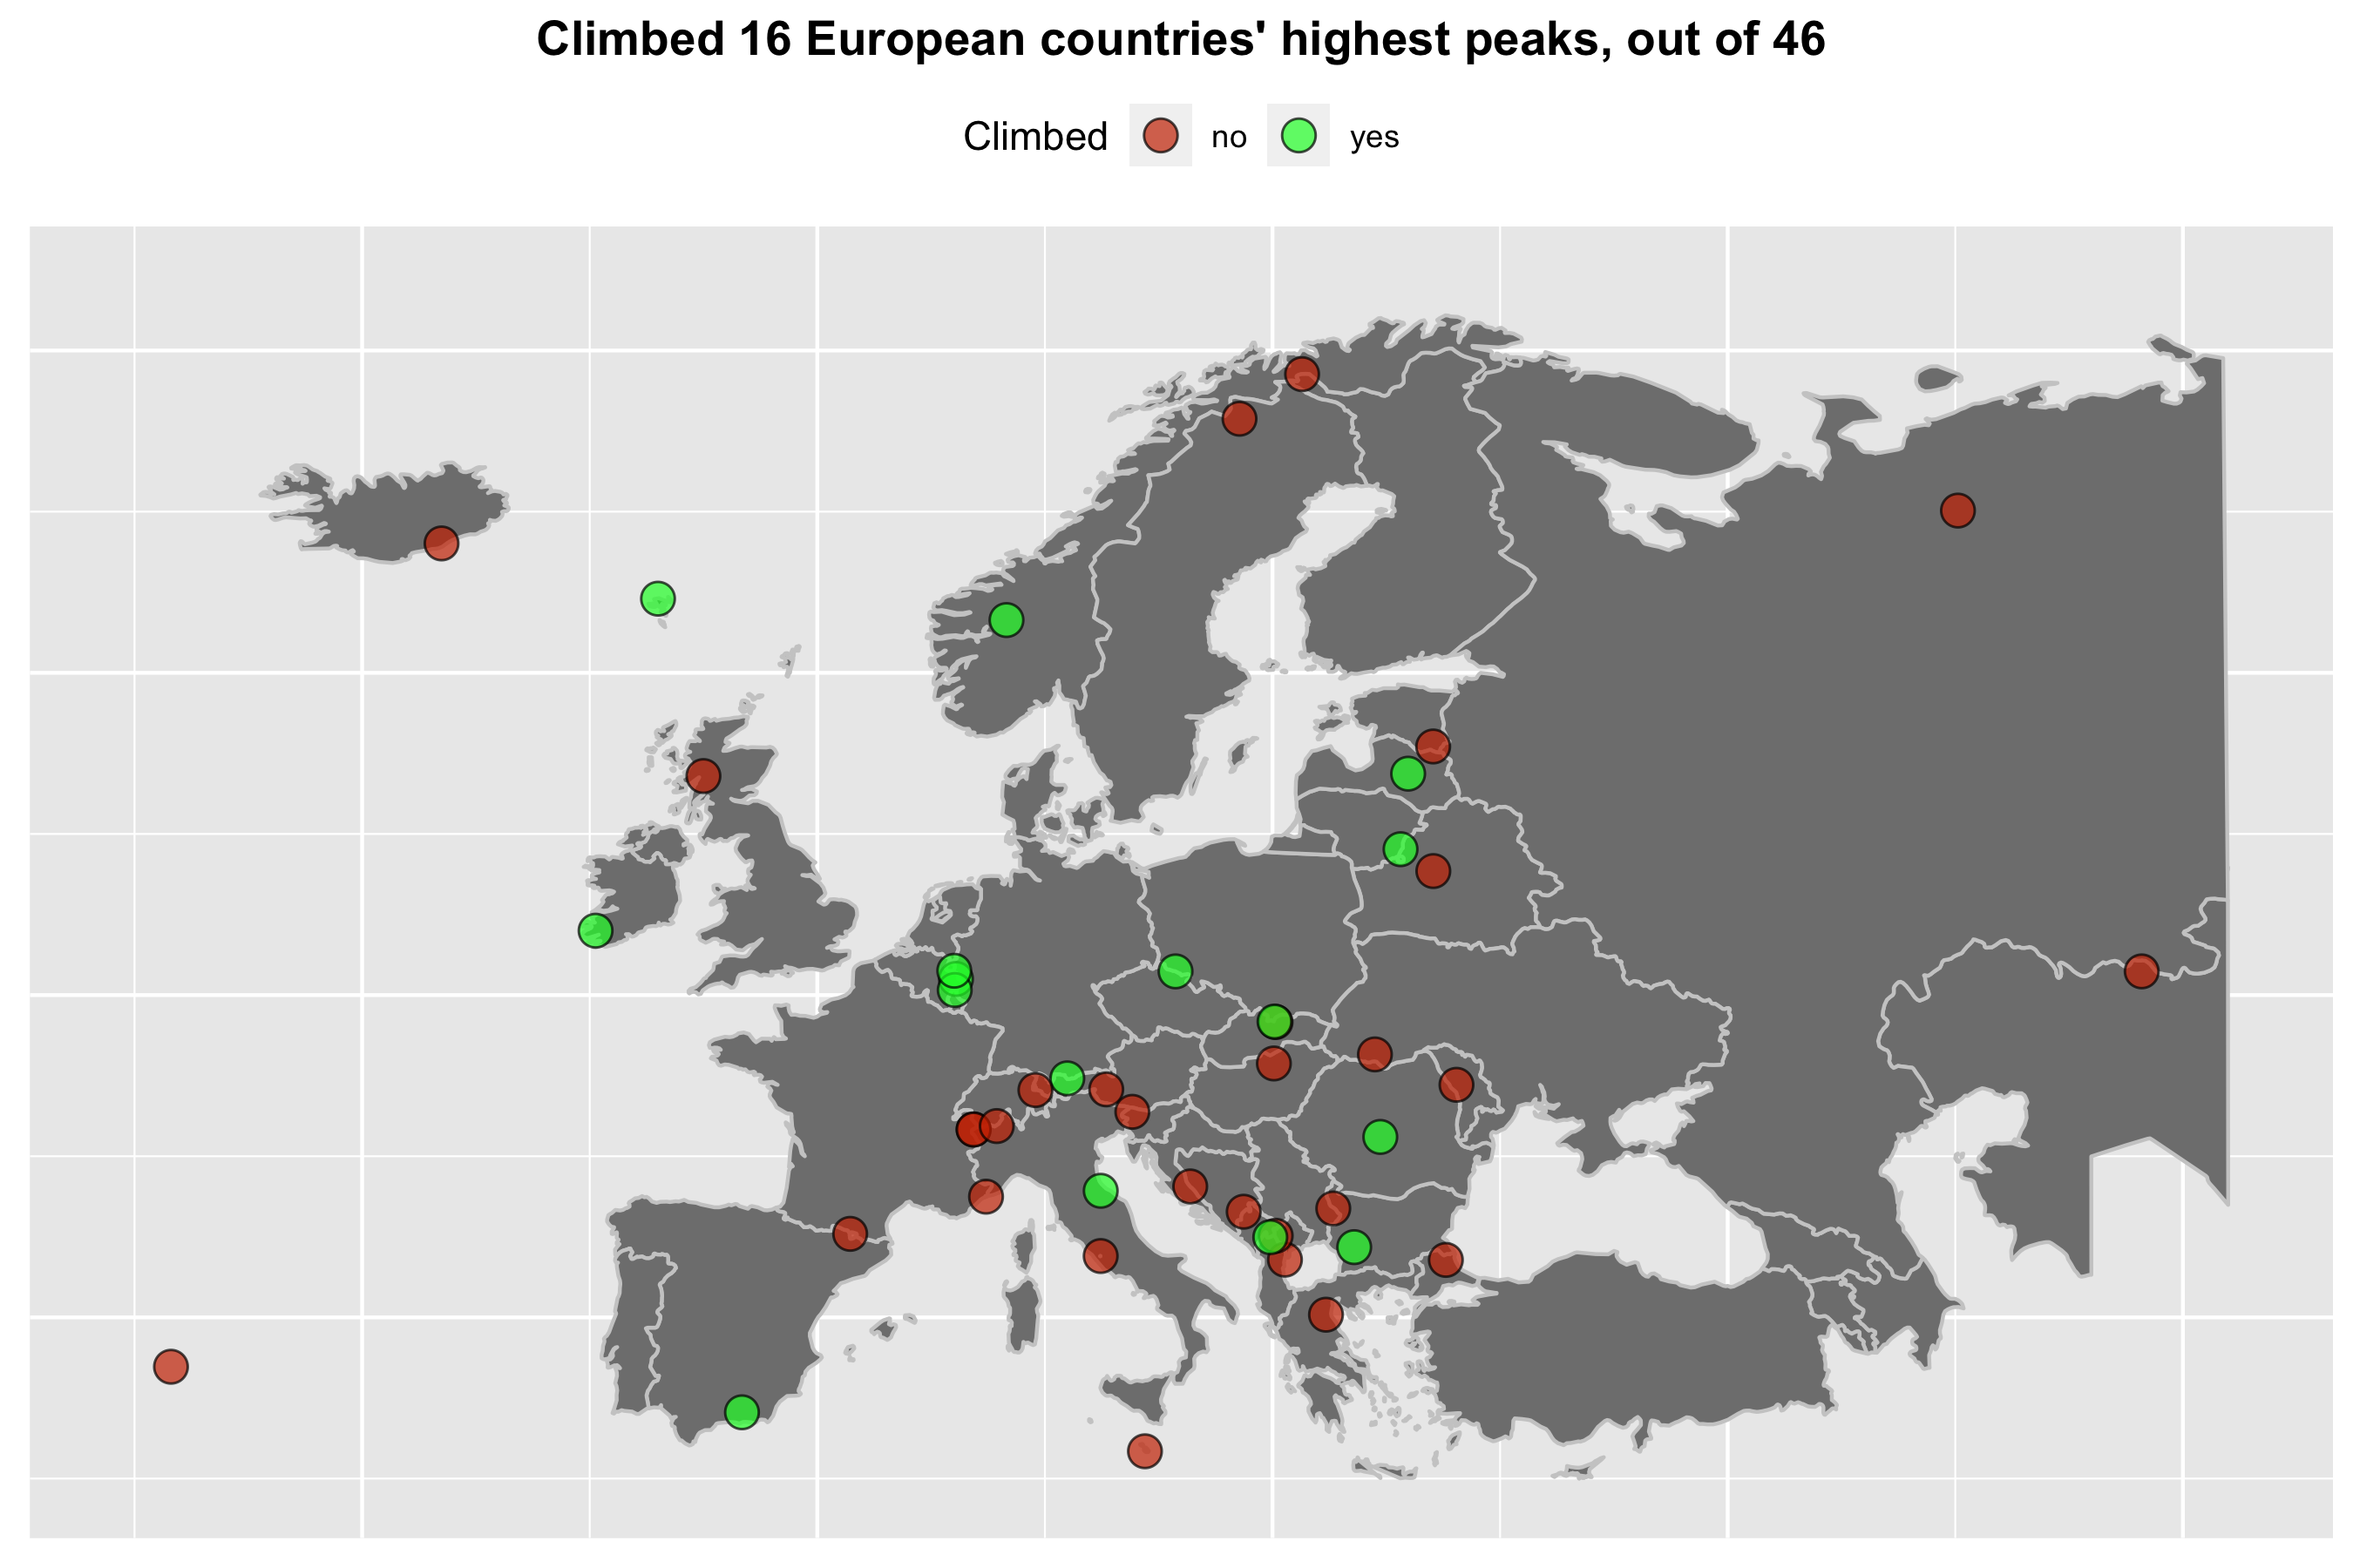
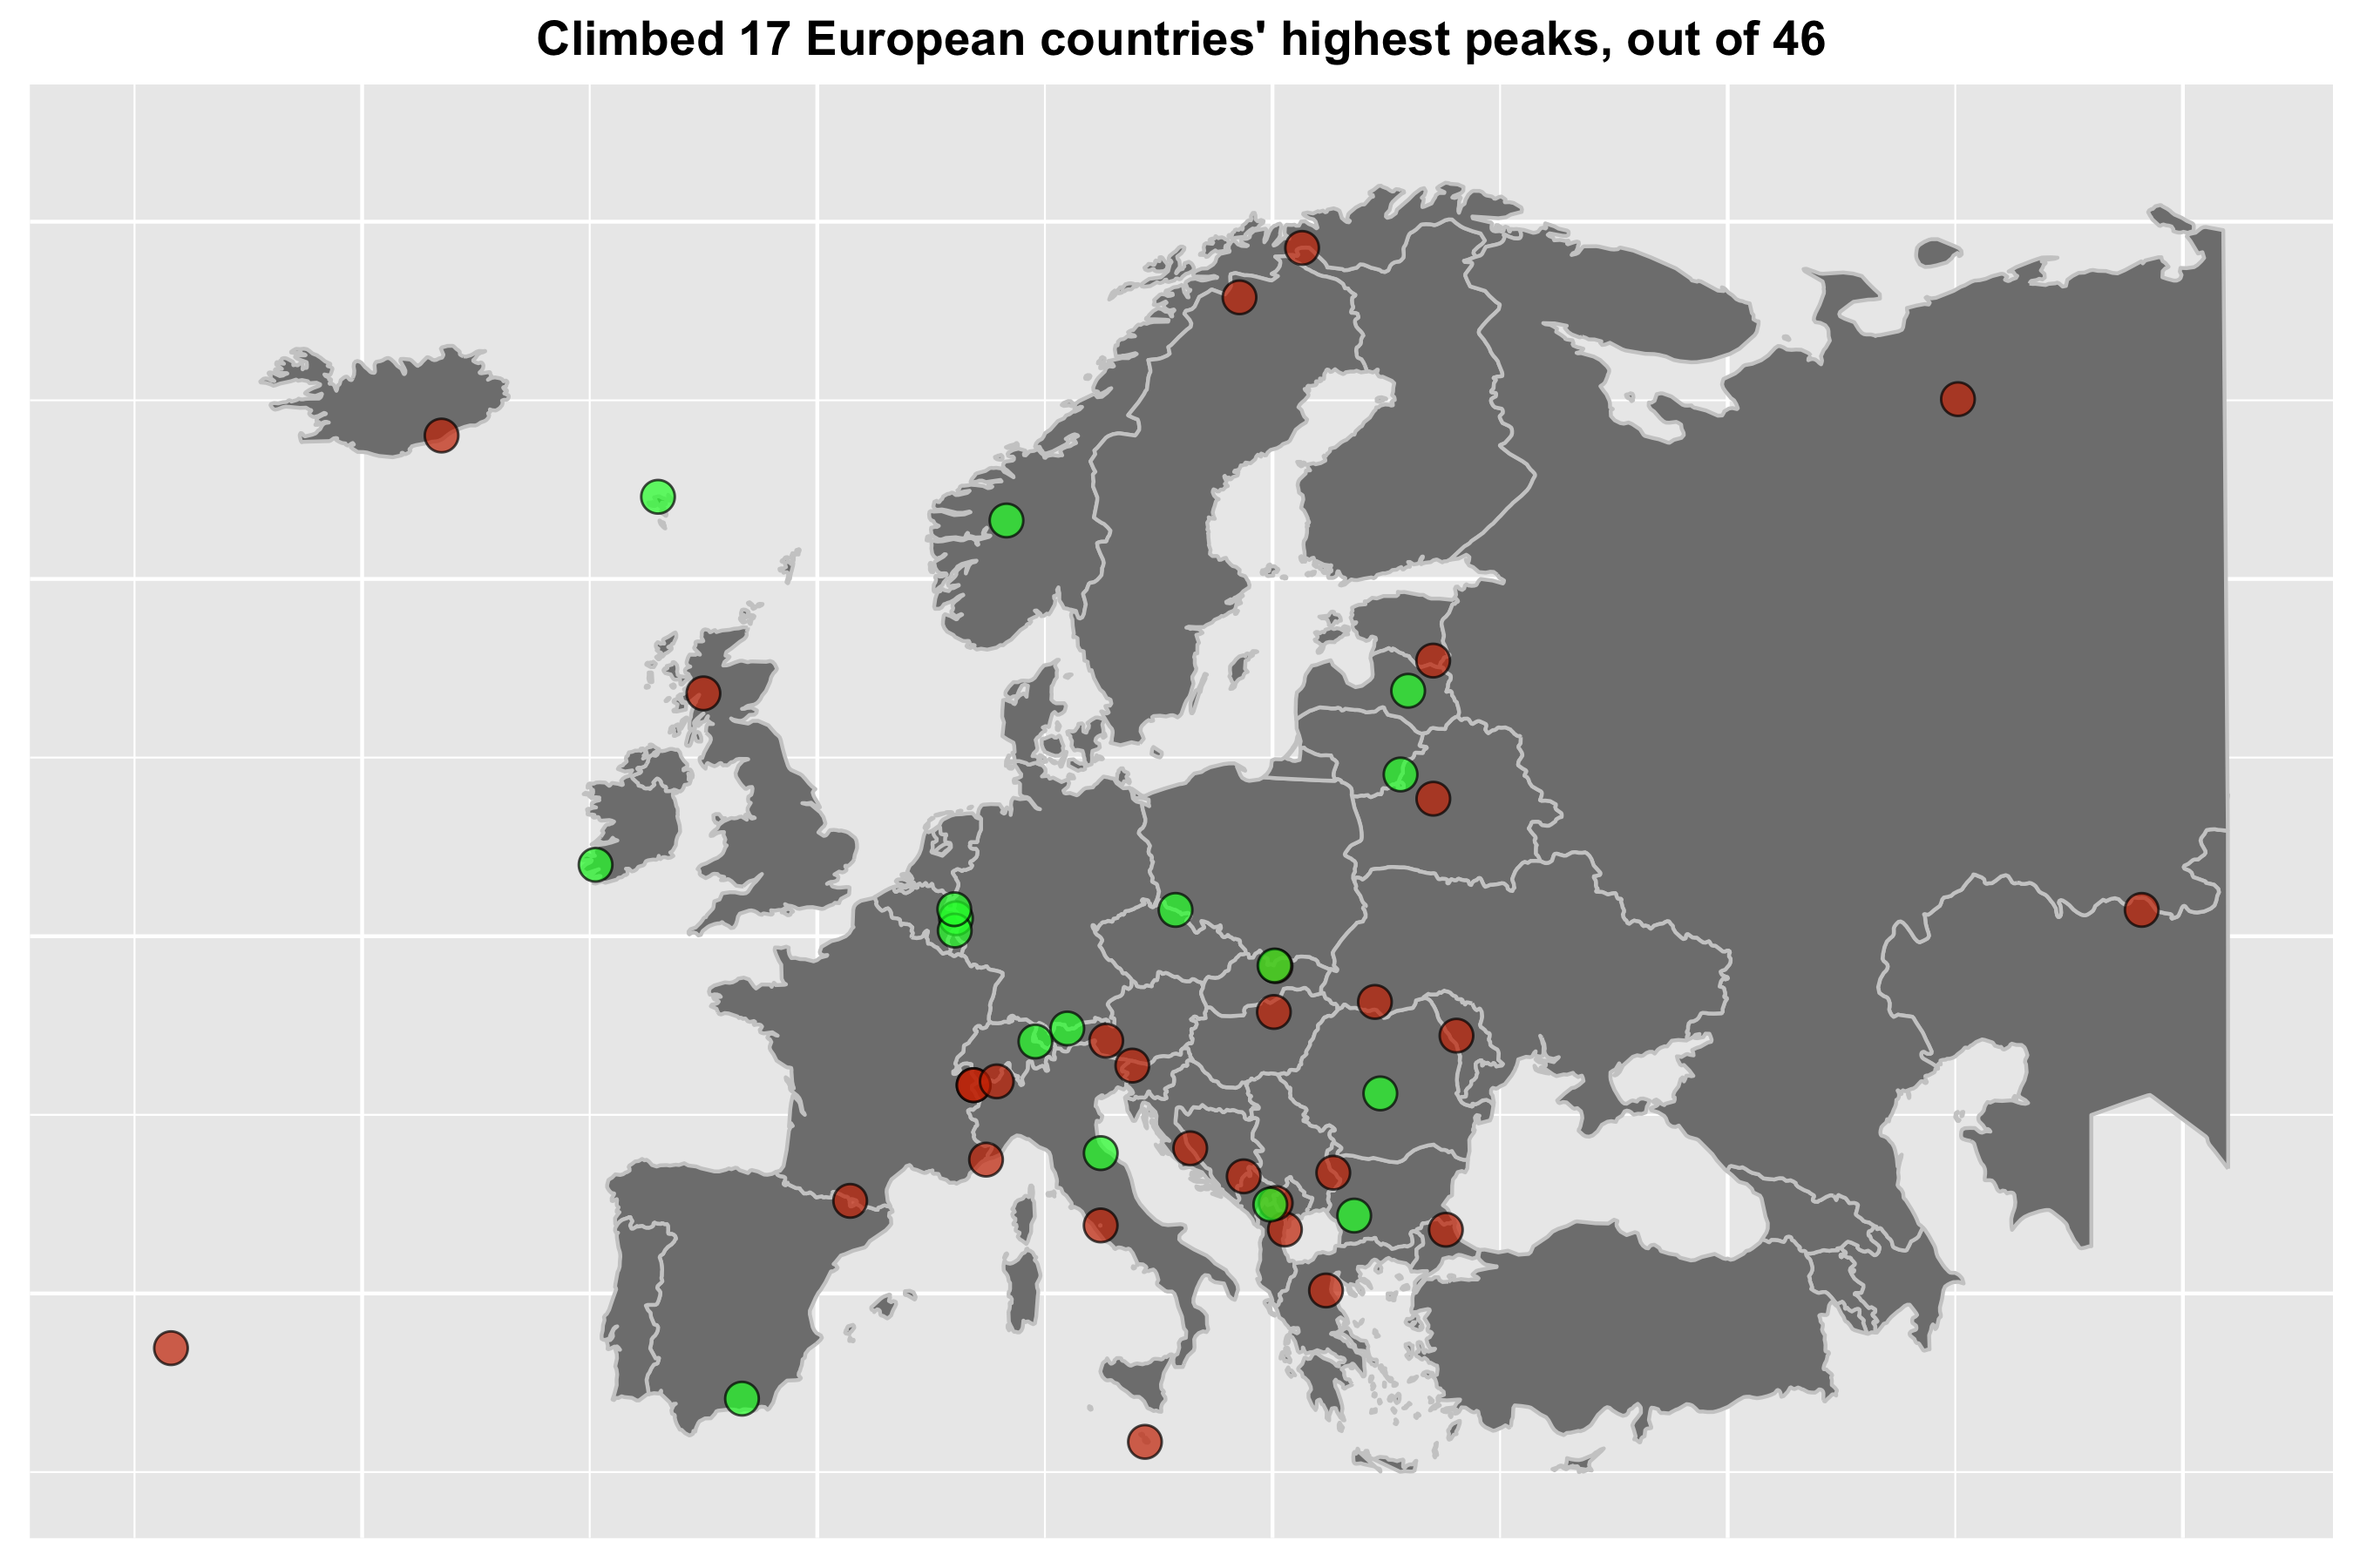
update

diff --git a/README.md b/README.md
@@ -31,41 +31,41 @@ The goal of the project is to visit the highest natural elevation of each sovere
 |   10|Slovenia               |Triglav                    |2 864 m   |                    |
 |   11|Albania                |Korab                      |2 764 m   |                    |
 |    -|North Macedonia        |Korab                      |2 764 m   |                    |
-|   13|Kosovo                 |Djeravica                  |2 656 m   |                    |
-|   14|Slovakia               |Gerlach                    |2 655 m   |                    |
-|   15|Liechtenstein          |Grauspitz                  |2 599 m   |                    |
-|   16|Romania                |Moldoveanu                 |2 544 m   | ✔ |
-|   17|Montenegro             |Zla Kolata                 |2 534 m   | ✔ |
-|   18|Poland                 |Rysy                       |2 499 m   | ✔ |
-|   19|Norway                 |Galdhopiggen               |2 469 m   | ✔ |
-|   20|Bosnia and Herzegovina |Maglic                     |2 386 m   |                    |
-|   21|Portugal               |Pico                       |2 351 m   |                    |
-|   22|Serbia                 |Midzur                     |2 169 m   |                    |
-|   23|Iceland                |Hvannadalshnukur           |2 110 m   |                    |
-|   24|Sweden                 |Kebnekaise                 |2 104 m   |                    |
-|   25|Ukraine                |Hoverla                    |2 061 m   |                    |
-|   26|Russia                 |Mount Narodnaya            |1 895 m   |                    |
-|   27|Croatia                |Vrh Dinare                 |1 831 m   |                    |
-|   28|Czech Republic         |Snezka                     |1 603 m   | ✔ |
-|   29|United Kingdom         |Ben Nevis                  |1 344 m   |                    |
-|   30|Finland                |Halti                      |1 324 m   |                    |
-|   31|Ireland                |Carrantuohill              |1 041 m   | ✔ |
-|   32|Turkey                 |Mahya Dagi                 |1 031 m   |                    |
-|   33|Hungary                |Kekes                      |1 014 m   |                    |
-|   34|Denmark                |Slaettaratindur            |882 m     | ✔ |
-|   35|San Marino             |Monte Titano               |749 m     | ✔ |
-|   36|Belgium                |Signal de Botrange         |694 m     | ✔ |
-|   37|Luksemburg             |Kneiff                     |560 m     | ✔ |
-|   38|Kazakhstan             |Unnamed peak               |509 m     |                    |
-|   39|Moldova                |Balanesti                  |430 m     |                    |
-|   40|Belarus                |Dzyarzhynskaya Hara        |345 m     |                    |
-|   41|The Netherlands        |Vaalsenberg                |321 m     | ✔ |
-|   42|Estonia                |Suur Munamagi              |318 m     |                    |
-|   43|Latvia                 |Gaizinkalns                |312 m     | ✔ |
-|   44|Lithuania              |Aukstojas Hill             |294 m     | ✔ |
-|   45|Malta                  |Ta' Dmejrek                |253 m     |                    |
-|   46|Monaco                 |Chemin des Revoires        |163 m     |                    |
-|   47|Vatican                |Vatican Hill               |75 m      |                    |
+|   12|Kosovo                 |Djeravica                  |2 656 m   |                    |
+|   13|Slovakia               |Gerlach                    |2 655 m   |                    |
+|   14|Liechtenstein          |Grauspitz                  |2 599 m   | ✔ |
+|   15|Romania                |Moldoveanu                 |2 544 m   | ✔ |
+|   16|Montenegro             |Zla Kolata                 |2 534 m   | ✔ |
+|   17|Poland                 |Rysy                       |2 499 m   | ✔ |
+|   18|Norway                 |Galdhopiggen               |2 469 m   | ✔ |
+|   19|Bosnia and Herzegovina |Maglic                     |2 386 m   |                    |
+|   20|Portugal               |Pico                       |2 351 m   |                    |
+|   21|Serbia                 |Midzur                     |2 169 m   |                    |
+|   22|Iceland                |Hvannadalshnukur           |2 110 m   |                    |
+|   23|Sweden                 |Kebnekaise                 |2 104 m   |                    |
+|   24|Ukraine                |Hoverla                    |2 061 m   |                    |
+|   25|Russia                 |Mount Narodnaya            |1 895 m   |                    |
+|   26|Croatia                |Vrh Dinare                 |1 831 m   |                    |
+|   27|Czech Republic         |Snezka                     |1 603 m   | ✔ |
+|   28|United Kingdom         |Ben Nevis                  |1 344 m   |                    |
+|   29|Finland                |Halti                      |1 324 m   |                    |
+|   30|Ireland                |Carrantuohill              |1 041 m   | ✔ |
+|   31|Turkey                 |Mahya Dagi                 |1 031 m   |                    |
+|   32|Hungary                |Kekes                      |1 014 m   |                    |
+|   33|Denmark                |Slaettaratindur            |882 m     | ✔ |
+|   34|San Marino             |Monte Titano               |749 m     | ✔ |
+|   35|Belgium                |Signal de Botrange         |694 m     | ✔ |
+|   36|Luksemburg             |Kneiff                     |560 m     | ✔ |
+|   37|Kazakhstan             |Unnamed peak               |509 m     |                    |
+|   38|Moldova                |Balanesti                  |430 m     |                    |
+|   39|Belarus                |Dzyarzhynskaya Hara        |345 m     |                    |
+|   40|The Netherlands        |Vaalsenberg                |321 m     | ✔ |
+|   41|Estonia                |Suur Munamagi              |318 m     |                    |
+|   42|Latvia                 |Gaizinkalns                |312 m     | ✔ |
+|   43|Lithuania              |Aukstojas Hill             |294 m     | ✔ |
+|   44|Malta                  |Ta' Dmejrek                |253 m     |                    |
+|   45|Monaco                 |Chemin des Revoires        |163 m     |                    |
+|   46|Vatican                |Vatican Hill               |75 m      |                    |
 
 
 
